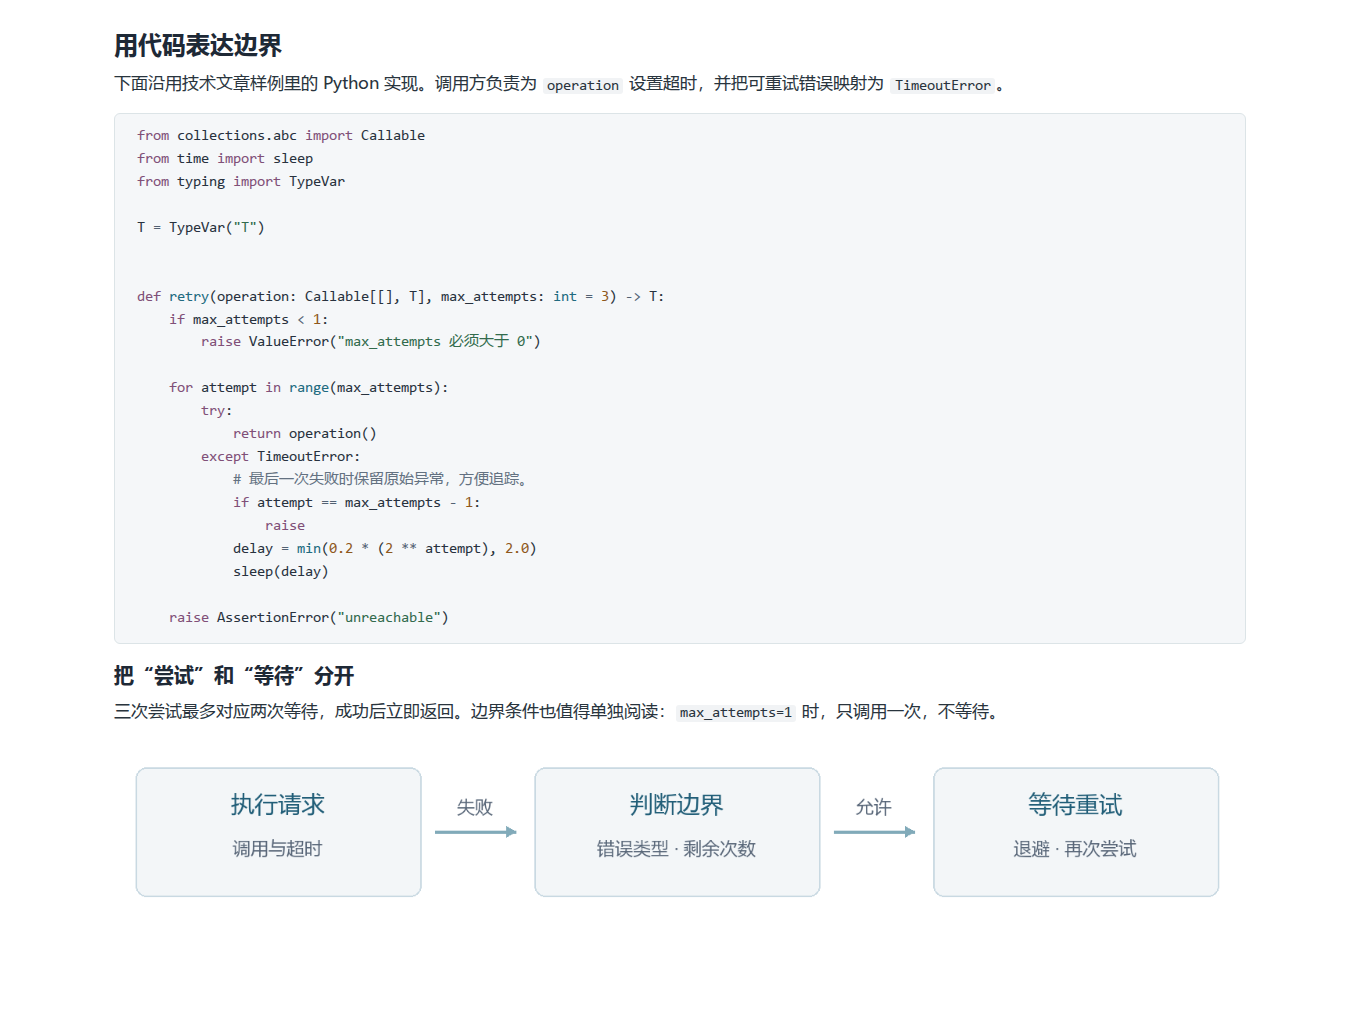
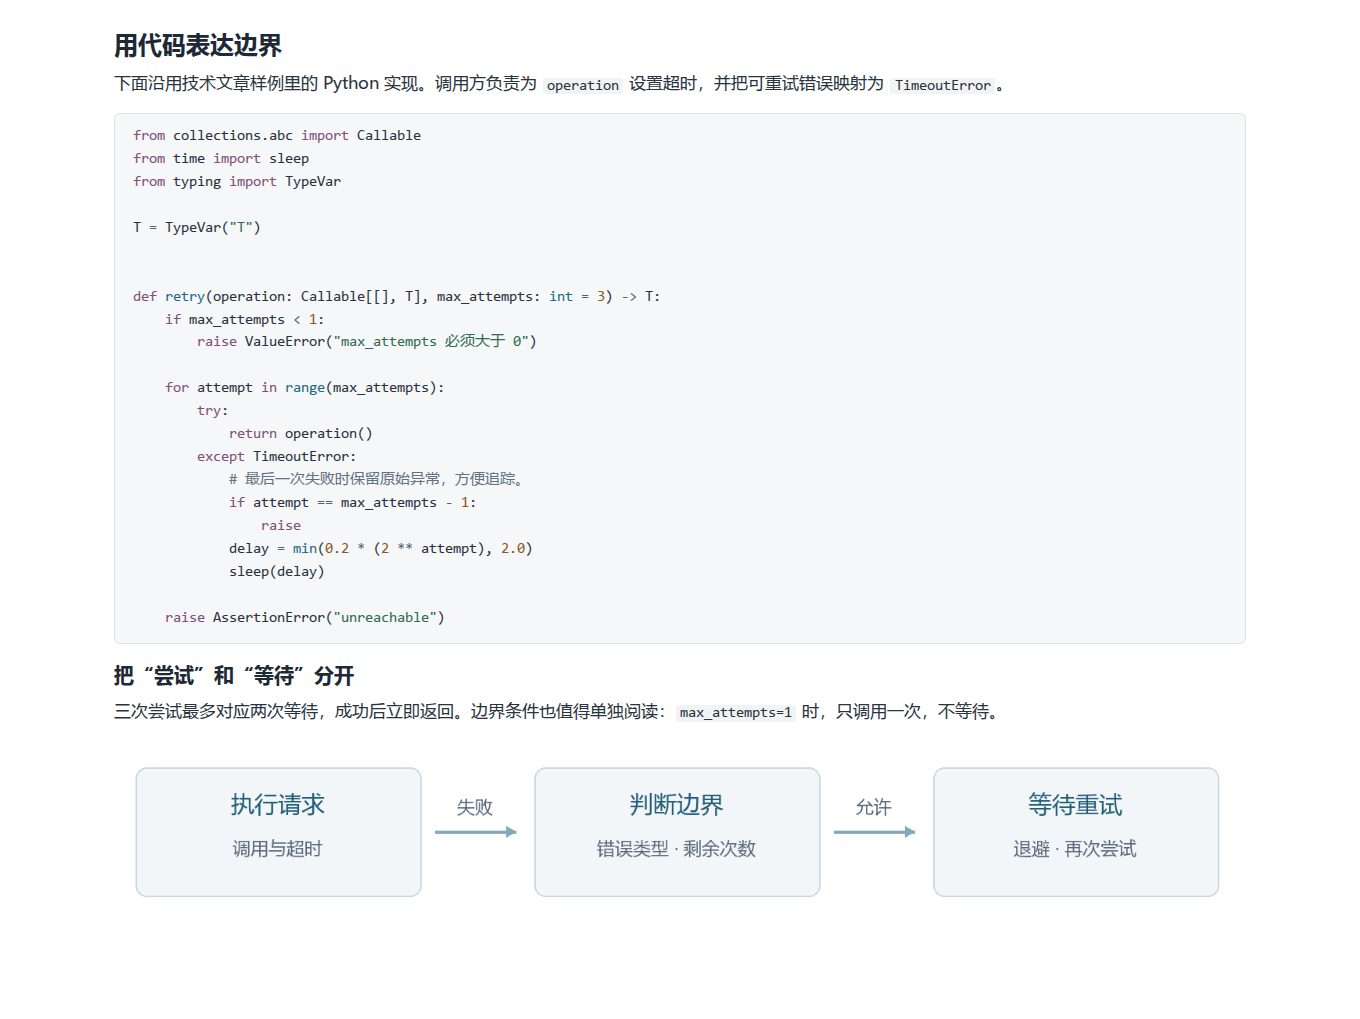
精简安装包并移除 Quietype 的主题依赖
Word 下载包仅保留两份 DOCX，Quietype 包仅保留主题 CSS。
移除 GitHub CSS 导入，补齐表格与文档元数据样式，并让预览脚本拒绝主题外部依赖。
同步下载说明、发布流程与演示图，准备 v0.2.1 附件。

验证：12 种布局与 Typora 正文、代码实机检查通过；62 处本地链接有效。
两个 ZIP 的文件清单、字节一致性和五项 SHA-256 校验通过。

Changed region(s): [[0.0926, 0.2738, 0.4941, 0.6084], [0.0926, 0.1217, 0.3088, 0.1825], [0.1235, 0.213, 0.1853, 0.2434]]

diff --git a/themes/quietype/quietype.css b/themes/quietype/quietype.css
@@ -1,9 +1,7 @@
 /* Quietype
  * 将本文件放入 Typora 主题文件夹，在主题菜单中选择 Quietype。
- * 基于同目录的内置 GitHub 样式，适合中文技术文章。
+ * 独立主题，使用系统字体，无需其他主题 CSS 或字体资源。
  */
-
-@import url("./github.css");
 
 :root {
     --bg-color: #ffffff;
@@ -188,6 +186,7 @@ body { font-family: var(--tl-font); color: var(--text-color); background: #fffff
     border-collapse: collapse;
     font-size: .92rem;
     line-height: 1.55;
+    word-break: normal;
 }
 #write th, #write td { border: 1px solid var(--tl-line); padding: .42em .7em; }
 #write th { background: #edf3f2; font-weight: 600; }
@@ -249,6 +248,7 @@ body { font-family: var(--tl-font); color: var(--text-color); background: #fffff
     font-family: var(--monospace);
     font-size: .86rem;
     line-height: 1.6;
+    margin-top: 0;
 }
 #write .md-meta, #write .md-content { color: var(--md-char-color); }
 #write .md-image > .md-meta { color: #647783; }

diff --git a/scripts/package.py b/scripts/package.py
@@ -9,26 +9,10 @@ from zipfile import ZipFile, ZipInfo, ZIP_DEFLATED
 
 ROOT = Path(__file__).resolve().parents[1]
 # Explicit inputs keep caches, editor lock files and installed Typora assets out.
-WORD_FILES = (
-    'README.md', 'docs/validation.md', 'docs/style-decisions.md',
-    'templates/standard.docx', 'templates/tech.docx', 'filters/center-images.lua',
-    'examples/assets/retry-flow.png',
-    *(f'examples/{name}.{ext}' for name in ('standard', 'technical-blog', 'style-coverage') for ext in ('md', 'docx')),
-    *(f'previews/{name}.pdf' for name in ('standard', 'technical-blog', 'style-coverage')),
-    *(f'previews/{name}{suffix}.png' for name in ('standard', 'technical-blog') for suffix in ('', '-markdown')),
-    *(f'scripts/{name}' for name in ('build.py', 'check_layout.py', 'check_pagination.py',
-        'make_diagram.py', 'render-word.ps1', 'render_previews.py', 'validate.py', 'validate_render.py')),
-)
-QUIETYPE_FILES = (
-    'README.md', 'quietype.css', 'docs/development.md', 'examples/assets/retry-flow.png',
-    *(f'examples/{name}.md' for name in ('quietype', 'quietype-elements', 'style-coverage')),
-    *(f'previews/quietype-{name}.png' for name in (
-        'reading', 'code', 'diagrams', 'markers', 'typora-reading', 'typora-code')),
-    *(f'scripts/{name}' for name in (
-        'render_theme_preview.py', 'typora_preview_assets.py', 'theme_preview_runtime.js')),
-)
+WORD_FILES = ('standard.docx', 'tech.docx')
+QUIETYPE_FILES = ('quietype.css',)
 PACKAGES = {
-    'typora-word': ('word', WORD_FILES),
+    'typora-word': ('word/templates', WORD_FILES),
     'quietype': ('themes/quietype', QUIETYPE_FILES),
 }
 STANDALONE = {
@@ -44,24 +28,24 @@ def package(name, version, source, files, output):
     with ZipFile(archive_path, 'w', ZIP_DEFLATED) as archive:
         for relative in sorted(files):
             # Fixed metadata makes identical inputs produce identical archives.
-            info = ZipInfo(f'{prefix}/{relative}', date_time=(1980, 1, 1, 0, 0, 0))
+            info = ZipInfo(relative, date_time=(1980, 1, 1, 0, 0, 0))
             info.create_system = 3
             info.external_attr = 0o100644 << 16
             archive.writestr(info, (source / relative).read_bytes(), compress_type=ZIP_DEFLATED)
     with ZipFile(archive_path) as archive:
         assert archive.testzip() is None
-        assert set(archive.namelist()) == {f'{prefix}/{relative}' for relative in files}
+        assert set(archive.namelist()) == set(files)
     print(f'{archive_path.relative_to(ROOT)}: {len(files)} files, {archive_path.stat().st_size:,} bytes')
     return archive_path
 
 
 def main():
     parser = argparse.ArgumentParser(description=__doc__)
-    parser.add_argument('--version', default='dev', help='Release version, e.g. 0.2.0 or v0.2.0; defaults to dev')
+    parser.add_argument('--version', default='dev', help='Release version, e.g. 0.2.1 or v0.2.1; defaults to dev')
     args = parser.parse_args()
     version = args.version.removeprefix('v')
     if version != 'dev' and not re.fullmatch(r'\d+\.\d+\.\d+(?:-[0-9A-Za-z]+(?:[.-][0-9A-Za-z]+)*)?', version):
-        parser.error('Use a version such as 0.2.0, v0.2.0 or 0.2.0-rc.1.')
+        parser.error('Use a version such as 0.2.1, v0.2.1 or 0.2.1-rc.1.')
     required = [f'{source}/{name}' for source, files in PACKAGES.values() for name in files]
     required.extend(STANDALONE.values())
     missing = [name for name in required if not (ROOT / name).is_file()]

diff --git a/themes/quietype/scripts/render_theme_preview.py b/themes/quietype/scripts/render_theme_preview.py
@@ -1,5 +1,5 @@
 #!/usr/bin/env python3
-"""Render the reading-theme draft with local Typora CSS; no application UI is simulated."""
+"""Check the standalone theme with local Typora renderers and core editor CSS."""
 import argparse
 from html import escape, unescape
 import json
@@ -123,9 +123,8 @@ def fragment(pandoc, source):
 
 def document(content, resources, font_dir, runtime):
     styles = [resources / 'style/base.css', resources / 'style/base-control.css', resources / 'style/codemirror.css']
-    base_theme = resources / 'style/themes/github.css'
     theme_file = ROOT / 'quietype.css'
-    missing = [str(path) for path in [*styles, base_theme, theme_file] if not path.is_file()]
+    missing = [str(path) for path in [*styles, theme_file] if not path.is_file()]
     if missing:
         raise SystemExit('Missing CSS: ' + ', '.join(missing))
     links = ''.join(f'<link rel="stylesheet" href="{path.as_uri()}">' for path in styles)
@@ -133,10 +132,11 @@ def document(content, resources, font_dir, runtime):
         'codemirror/core.js', 'codemirror/mode.min.js', 'diagram/mermaid.min.js'))
     mathjax = (runtime / 'MathJax3/es5/tex-svg-full.js').as_uri()
     runner = (ROOT / 'scripts/theme_preview_runtime.js').as_uri()
-    # In Typora both theme files live in the same directory. Resolve that import
-    # to the local installation when previewing the repository copy in a browser.
-    theme = theme_file.read_text(encoding='utf-8').replace(
-        '@import url("./github.css");', f'@import url("{base_theme.as_uri()}");')
+    # Only the editor's core CSS is loaded; no installed theme supplies styles.
+    theme = theme_file.read_text(encoding='utf-8')
+    css = re.sub(r'/\*.*?\*/', '', theme, flags=re.S)
+    if re.search(r'@import\b|@include-when-export\b|url\s*\(', css, flags=re.I):
+        raise SystemExit('Quietype must be standalone: no CSS imports or external assets.')
     fonts = ''
     if font_dir:
         for family, filename, weight in [('Microsoft YaHei', 'msyh.ttc', 400),

diff --git a/docs/releasing.md b/docs/releasing.md
@@ -4,8 +4,8 @@
 
 | 附件 | 内容 |
 |---|---|
-| `typora-word-版本号.zip` | 两套 Word 模板、可选图片配置、说明、样例、预览和开发脚本 |
-| `quietype-版本号.zip` | Quietype CSS、说明、样例、预览和开发脚本 |
+| `typora-word-版本号.zip` | 仅包含 `standard.docx` 和 `tech.docx` |
+| `quietype-版本号.zip` | 仅包含 `quietype.css` |
 | `standard.docx`、`tech.docx`、`quietype.css` | 可直接安装的单独文件 |
 | `SHA256SUMS` | 以上五个文件的 SHA-256 校验值 |
 
@@ -17,7 +17,9 @@
 - 各目录的 `build/`：本地验证和渲染中间文件，不纳入 Git。
 - 根目录 `dist/`：发布附件，不纳入 Git。
 
-两个包内的 README、图片和样例链接均指向各自包内文件，公共发布说明链接指向 GitHub。解压后可独立使用。Typora 自带的 CSS、字体和 JavaScript 从本机读取，不随包分发。
+两个 ZIP 的根目录直接放置可安装文件。说明、样例、预览、可选图片配置和开发脚本保留在仓库中，不放入下载包。
+
+Quietype 只需安装 `quietype.css`，不导入或依赖其他主题 CSS。Typora 自带的编辑器、代码高亮、公式和图形渲染功能由应用提供，无需额外安装主题、字体或脚本。开发时的浏览器预览会读取本机 Typora 的运行时资源，这些资源不属于主题依赖，也不随包分发。
 
 ## 发布前检查
 
@@ -33,15 +35,15 @@
 在仓库根目录执行：
 
 ```bash
-python3 scripts/package.py --version 0.2.0
+python3 scripts/package.py --version 0.2.1
 ```
 
 生成：
 
 ```text
 dist/
-├── typora-word-0.2.0.zip
-├── quietype-0.2.0.zip
+├── typora-word-0.2.1.zip
+├── quietype-0.2.1.zip
 ├── standard.docx
 ├── tech.docx
 ├── quietype.css
@@ -60,19 +62,19 @@ Windows 可用 PowerShell 的 `Get-FileHash` 获取 SHA-256，并与 `SHA256SUMS
 
 ## 发布 Release
 
-将最终提交推送后，在 [GitHub Releases](https://github.com/taifuer/typora-template/releases) 创建 `v0.2.0`，标签指向已验证的提交，上传上面的六个附件。
+将最终提交推送后，在 [GitHub Releases](https://github.com/taifuer/typora-template/releases) 创建 `v0.2.1`，标签指向已验证的提交，上传上面的六个附件。
 
 也可先创建草稿并上传附件，检查后发布：
 
 ```bash
-gh release create v0.2.0 --draft --target COMMIT_SHA \
-  --title 'v0.2.0 · Quietype 与 Word 导出模板' \
+gh release create v0.2.1 --draft --target COMMIT_SHA \
+  --title 'v0.2.1 · Quietype 与 Word 导出模板' \
   --notes-file /path/to/release-notes.md \
-  dist/typora-word-0.2.0.zip dist/quietype-0.2.0.zip \
+  dist/typora-word-0.2.1.zip dist/quietype-0.2.1.zip \
   dist/standard.docx dist/tech.docx dist/quietype.css dist/SHA256SUMS
-gh release edit v0.2.0 --draft=false --latest
+gh release edit v0.2.1 --draft=false --latest
 ```
 
-发布后下载附件重新校验，并确认版本标签指向预期提交。正式附件保持固定；后续更新使用新版本号。GitHub 自动提供的 Source code 是完整仓库快照，两个命名 ZIP 是各自整理后的使用包。
+发布后下载附件重新校验，并确认版本标签指向预期提交。正式附件保持固定；后续更新使用新版本号。GitHub 自动提供的 Source code 是完整仓库快照，两个命名 ZIP 仅包含各自的可安装文件。
 
-已发布的 `v0.1.0` 保留原有附件。
+已发布的 `v0.1.0` 和 `v0.2.0` 保留原有附件。

diff --git a/themes/quietype/docs/development.md b/themes/quietype/docs/development.md
@@ -10,7 +10,7 @@
 
 另外已在 Windows 的 Typora 1.12.4 窗口中逐项查看正文、标题、行内代码、Python/JavaScript 代码、引用、Mermaid 流程图与时序图、行内和块公式，并修正了实机出现的中文代码字体回退问题。截图中的正文背景为纯白。输入法、表格工具条、专注模式及原生 PDF 导出尚未专项验证；不同 Typora 版本的图形布局也可能略有差异。
 
-在主题目录（仓库中的 `themes/quietype/` 或解压后的主题包目录）运行以下命令重新生成预览，需要 Pandoc、Chromium/Chrome，以及本机 Typora 的 `resources` 目录：
+在仓库的 `themes/quietype/` 目录运行以下命令重新生成预览，需要 Pandoc、Chromium/Chrome，以及本机 Typora 的 `resources` 目录：
 
 ```bash
 python3 scripts/render_theme_preview.py \
@@ -21,6 +21,6 @@ python3 scripts/render_theme_preview.py \
 
 在 WSL 中可额外传 `--font-dir /mnt/c/Windows/Fonts`，用本机微软雅黑与 Consolas 渲染预览。四张组件 PNG 写入 `previews/`，本地 HTML、渲染器副本与测量记录写入忽略的 `build/theme-preview/`。该脚本不会生成实机截图。Typora 自带的 CSS、字体和 JavaScript 只从本机读取，不打包分发；预览脚本目前适配本机 1.12.4 的资源布局。
 
-本版通过 CSS `@import` 继承内置 GitHub 样式，主题接口与文件命名参考 [Typora 主题开发文档](https://theme.typora.io/doc/Write-Custom-Theme/)。
+Quietype 的全部主题样式写在 `quietype.css` 中，不导入其他主题 CSS，不引用外部字体或图片。预览仅加载 Typora 核心编辑器 CSS、渲染组件和 Quietype；脚本会拒绝主题中的 CSS 导入或外部资源引用。主题接口与文件命名参考 [Typora 主题开发文档](https://theme.typora.io/doc/Write-Custom-Theme/)。
 
 排版参考我们自己的 [Quietype WordPress 主题](https://github.com/taifuer/quietype)与[技术文章实例](https://taifua.com/libvirt-event-handler-two.html)：使用清楚的标题层级、克制的行内代码与引用样式。Typora 版保留纯白背景和更紧凑的间距。

diff --git a/README.md b/README.md
@@ -9,12 +9,12 @@
 
 ## 使用
 
-在同一个 [Release](https://github.com/taifuer/typora-template/releases/latest) 中按需下载，每个包都包含自己的说明、样例和预览。
+在同一个 [Release](https://github.com/taifuer/typora-template/releases/latest) 中按需下载：Word 包只含两份 DOCX 模板，主题包只含 `quietype.css`。说明、样例和预览保留在仓库中。
 
 | 内容 | 下载包 | 单独下载 |
 |---|---|---|
-| Word 导出模板 | [typora-word-0.2.0.zip](https://github.com/taifuer/typora-template/releases/download/v0.2.0/typora-word-0.2.0.zip) | [standard.docx](https://github.com/taifuer/typora-template/releases/latest/download/standard.docx) · [tech.docx](https://github.com/taifuer/typora-template/releases/latest/download/tech.docx) |
-| Quietype 阅读主题 | [quietype-0.2.0.zip](https://github.com/taifuer/typora-template/releases/download/v0.2.0/quietype-0.2.0.zip) | [quietype.css](https://github.com/taifuer/typora-template/releases/latest/download/quietype.css) |
+| Word 导出模板 | [typora-word-0.2.1.zip](https://github.com/taifuer/typora-template/releases/download/v0.2.1/typora-word-0.2.1.zip) | [standard.docx](https://github.com/taifuer/typora-template/releases/latest/download/standard.docx) · [tech.docx](https://github.com/taifuer/typora-template/releases/latest/download/tech.docx) |
+| Quietype 阅读主题 | [quietype-0.2.1.zip](https://github.com/taifuer/typora-template/releases/download/v0.2.1/quietype-0.2.1.zip) | [quietype.css](https://github.com/taifuer/typora-template/releases/latest/download/quietype.css) |
 
 ### 导出 Word
 
@@ -27,7 +27,7 @@
 1. 在 Typora **偏好设置 → 外观 → 打开主题文件夹**中放入 `quietype.css`。
 2. 重启 Typora，在 **主题**菜单中选择 **Quietype**。
 
-Quietype 会读取 Typora 自带的 `github.css`，保留该文件即可，无需额外安装字体。
+Quietype 是独立的单文件主题，无需其他主题 CSS 或额外字体。
 
 ## 演示
 

diff --git a/word/docs/validation.md b/word/docs/validation.md
@@ -77,8 +77,8 @@ python3 scripts/render_previews.py --pandoc /mnt/c/Users/Administrator/AppData/L
 - 左侧 `*-markdown.png`：从 `examples/` 中的原文提取对应片段，由 Pandoc 转为 HTML，再用浏览器截图；这是 Markdown 渲染预览，不是 Typora 界面截图。标准版展示开头至“信息记录”表格，技术版展示“用代码表达边界”至指数退避公式。
 - 右侧 PNG：由 `pdftoppm` 从已经验证的 Word PDF 中提取标准样例第 1 页、技术样例第 2 页，保留完整页面。Markdown 连续排版与 Word 分页不同，标准表格末行在 Word 第 2 页。
 
-预览图宽 1200 px，随使用包分发。截图用的 HTML 和浏览器临时文件放在被 Git 忽略的 `build/` 中，浏览器截图不需要额外的 Python 包。
+预览图宽 1200 px，保留在仓库中。截图用的 HTML 和浏览器临时文件放在被 Git 忽略的 `build/` 中，浏览器截图不需要额外的 Python 包。
 
-如需生成发布包，在完整仓库根目录运行 `python3 scripts/package.py --version 0.2.0`。两个独立 ZIP 和 `SHA256SUMS` 写入被 Git 忽略的 `dist/`，具体操作见[发布说明](https://github.com/taifuer/typora-template/blob/main/docs/releasing.md)。
+如需生成发布包，在完整仓库根目录运行 `python3 scripts/package.py --version 0.2.1`。两个独立 ZIP 和 `SHA256SUMS` 写入被 Git 忽略的 `dist/`，具体操作见[发布说明](https://github.com/taifuer/typora-template/blob/main/docs/releasing.md)。
 
 模板只负责排版，不承诺将任意 Mermaid、复杂 HTML、特殊提示块或公式交叉引用转换为原生 Word 内容。宽表格仍受列数和内容长度影响。字体缺失或阅读器不同也可能改变分页。

diff --git a/themes/quietype/README.md b/themes/quietype/README.md
@@ -8,13 +8,12 @@
 
 ## 使用
 
-下载 [Quietype 主题包](https://github.com/taifuer/typora-template/releases/download/v0.2.0/quietype-0.2.0.zip)，或单独下载 [quietype.css](https://github.com/taifuer/typora-template/releases/latest/download/quietype.css)。
+下载 [Quietype 主题包](https://github.com/taifuer/typora-template/releases/download/v0.2.1/quietype-0.2.1.zip)，或单独下载 [quietype.css](https://github.com/taifuer/typora-template/releases/latest/download/quietype.css)。
 
 1. 在 Typora **偏好设置 → 外观 → 打开主题文件夹**中放入 `quietype.css`。
 2. 重启 Typora，在 **主题**菜单中选择 **Quietype**。
-3. 打开包内的[试读文章](examples/quietype.md)或[元素样例](examples/quietype-elements.md)，查看完整效果。保留样例旁的 `assets/` 文件夹即可显示插图。
 
-Quietype 继承 Typora 自带的 GitHub 样式，需要主题文件夹中保留 `github.css` 及其字体资源目录。
+主题包只包含 `quietype.css`，无需其他主题 CSS 或额外字体。[试读文章](examples/quietype.md)和[元素样例](examples/quietype-elements.md)保留在仓库中；下载试读时保留样例旁的 `assets/` 文件夹即可显示插图。
 
 ### 说明
 

diff --git a/word/README.md b/word/README.md
@@ -9,7 +9,7 @@
 
 ## 使用
 
-下载 [Word 模板包](https://github.com/taifuer/typora-template/releases/download/v0.2.0/typora-word-0.2.0.zip)，或单独下载 [standard.docx](https://github.com/taifuer/typora-template/releases/latest/download/standard.docx)、[tech.docx](https://github.com/taifuer/typora-template/releases/latest/download/tech.docx)。包内模板位于 `templates/`。
+下载 [Word 模板包](https://github.com/taifuer/typora-template/releases/download/v0.2.1/typora-word-0.2.1.zip)，或单独下载 [standard.docx](https://github.com/taifuer/typora-template/releases/latest/download/standard.docx)、[tech.docx](https://github.com/taifuer/typora-template/releases/latest/download/tech.docx)。压缩包只包含这两份 DOCX，解压后即可使用。
 
 1. 将选中的 DOCX 放到 Windows 本地固定目录。
 2. 在 Typora **偏好设置 → 导出 → Word (.docx) → 样式参考**中选择模板。
